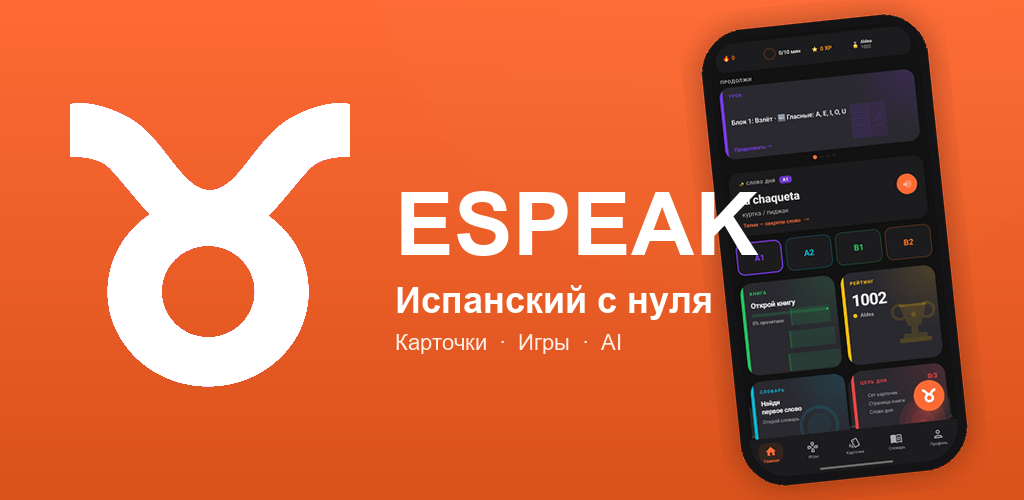
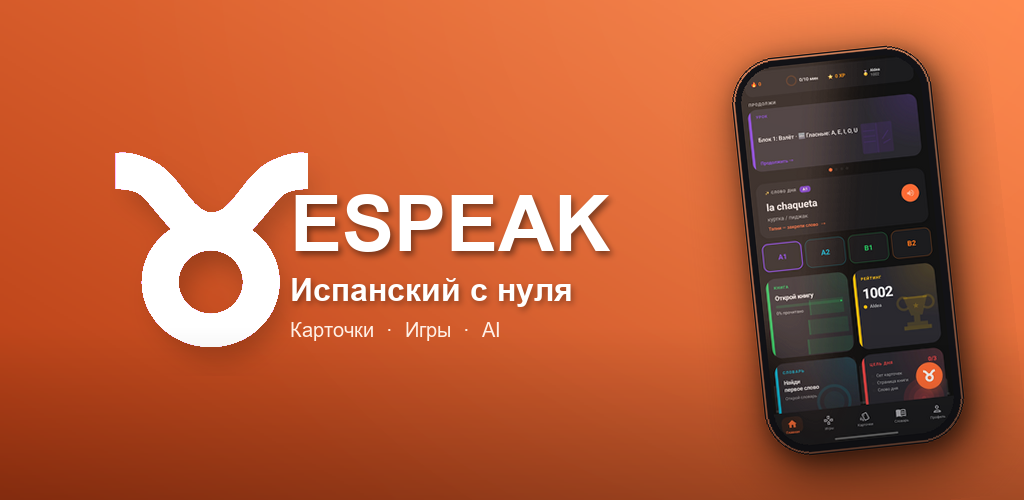
play(assets): feature graphic v5 — depth + shadows + glass reflection
User feedback on v4: composition lacked volume, shadows, depth.

v5 adds proper depth without changing the layout structure:
- Diagonal background gradient (bright top-right → deep bottom-left)
  instead of flat vertical, ties to the sun-glow
- Sun-glow halo in the top-right corner (Gaussian-blurred radial)
- Soft cast shadow under the bull silhouette (16px blur, 140 alpha,
  offset down-right)
- Multi-layer drop shadow under the phone (28px outer + 10px inner,
  black, blurred)
- Bezel highlight on the phone (1px white outline, 35 alpha)
- Glass reflection on the screen (diagonal soft-blurred polygon,
  30 alpha) — sells the "real device" illusion
- Soft text drop-shadow under ESPEAK / Испанский с нуля
- Bottom vignette (black, 0→70 alpha) for grounding
- Smaller bull (220×220) to avoid crowding text

diff --git a/docs/play_assets/_make_feature_v5.py b/docs/play_assets/_make_feature_v5.py
@@ -1,0 +1,195 @@
+"""1024x500 Play Store feature graphic v5 — depth, shadows, volume.
+
+Same composition as v4 (bull+text left, phone mockup right) but with:
+  • Dramatic radial light from top-right (sun-glow)
+  • Soft cast shadow under the bull
+  • Deeper, multi-layer drop shadow under the phone
+  • Glass screen reflection (diagonal highlight)
+  • Subtle text shadow under ESPEAK
+  • Bottom vignette for grounding
+"""
+from svglib.svglib import svg2rlg
+from reportlab.graphics import renderPM
+from PIL import Image, ImageDraw, ImageFont, ImageFilter
+import io, os
+
+W, H = 1024, 500
+
+# ── Bull silhouette ────────────────────────────────────────
+BULL_SVG = '<?xml version="1.0" encoding="UTF-8"?>\n<svg xmlns="http://www.w3.org/2000/svg" width="220" height="220" viewBox="0 0 512 512"><rect width="512" height="512" fill="#FF00FF"/><path fill="#FFFFFF" d="M30.882,30.14s33.525,-10.81 92.088,19.64c60.996,31.72 85.628,116.77 132.906,117.86c47.283,-1.09 71.92,-86.14 132.912,-117.858c58.558,-30.45 92.088,-19.643 92.088,-19.643v85.483s-38.062,-2.453 -58.934,13.507c-15.165,11.593 -45.23,54.296 -71.375,80.08c38.867,27.833 63.966,71.877 63.966,121.45c0,84.162 -72.343,152.39 -161.587,152.39S91.353,414.821 91.353,330.659c0,-51.03 26.6,-96.205 67.432,-123.865c-25.558,-25.957 -54.263,-66.43 -68.965,-77.67c-20.877,-15.96 -58.938,-13.506 -58.938,-13.506zM179.45,330.49c0,40.01 32.98,72.44 73.664,72.44s73.67,-32.435 73.67,-72.44s-32.98,-72.44 -73.67,-72.44c-40.688,0 -73.664,32.436 -73.664,72.44"/></svg>'
+
+drawing = svg2rlg(io.BytesIO(BULL_SVG.encode('utf-8')))
+bull_marker_path = 'docs/play_assets/_bull_marker_tmp.png'
+renderPM.drawToFile(drawing, bull_marker_path, fmt='PNG', dpi=72)
+bull = Image.open(bull_marker_path).convert('RGBA')
+data = list(bull.getdata())
+new_data = []
+for r, g, b, a in data:
+    if r > b * 0.9 and g < 200 and abs(r - b) < 80 and r > 150 and b > 150 and g < r * 0.7:
+        new_data.append((0, 0, 0, 0))
+    else:
+        new_data.append((r, g, b, a))
+bull.putdata(new_data)
+
+# ── Background — diagonal gradient FROM bright top-right TO dark bottom-left
+img = Image.new('RGBA', (W, H), (217, 82, 28, 255))
+draw = ImageDraw.Draw(img)
+# Compute per-pixel from a diagonal gradient
+top_color    = (255, 130, 70)    # warm bright
+bot_color    = (180, 60, 20)     # deep darker
+for y in range(H):
+    for x_seg in range(0, W, 4):  # step 4 for speed; will fill rect
+        # Distance from top-right corner (0..max)
+        dx = (W - x_seg) / W
+        dy = y / H
+        t = (dx * 0.55 + dy * 0.45)
+        t = max(0.0, min(1.0, t))
+        r = int(top_color[0] + (bot_color[0] - top_color[0]) * t)
+        g = int(top_color[1] + (bot_color[1] - top_color[1]) * t)
+        b = int(top_color[2] + (bot_color[2] - top_color[2]) * t)
+        draw.rectangle([x_seg, y, x_seg + 4, y + 1], fill=(r, g, b))
+
+# ── Sun-glow from top-right ────────────────────────────────
+glow = Image.new('RGBA', (W, H), (0, 0, 0, 0))
+gdraw = ImageDraw.Draw(glow)
+sun_x, sun_y = W - 200, -50
+for r in range(700, 80, -8):
+    alpha = max(0, int(28 - r * 0.038))
+    if alpha <= 0: continue
+    gdraw.ellipse([sun_x - r, sun_y - r, sun_x + r, sun_y + r],
+                  fill=(255, 240, 200, alpha))
+glow = glow.filter(ImageFilter.GaussianBlur(8))
+img = Image.alpha_composite(img, glow)
+
+# ── Phone mockup with screenshot — deeper shadow ──────────
+SHOT = 'docs/play_assets/screenshots/Screenshot_20260511_095005_ESPEAK.jpg'
+shot = Image.open(SHOT).convert('RGBA')
+ph_h = 380
+ph_w = int(ph_h * (shot.width / shot.height))
+shot_resized = shot.resize((ph_w, ph_h), Image.LANCZOS)
+
+PHONE_W = ph_w + 18
+PHONE_H = ph_h + 18
+
+# Composite phone with multi-layer shadow + glass reflection
+def build_phone():
+    pad = 60
+    canvas = Image.new('RGBA', (PHONE_W + pad * 2, PHONE_H + pad * 2), (0, 0, 0, 0))
+
+    # Layer 1: large soft shadow
+    s1 = Image.new('RGBA', canvas.size, (0, 0, 0, 0))
+    s1d = ImageDraw.Draw(s1)
+    s1d.rounded_rectangle([pad + 8, pad + 16, pad + PHONE_W + 8, pad + PHONE_H + 16],
+                           radius=44, fill=(0, 0, 0, 160))
+    s1 = s1.filter(ImageFilter.GaussianBlur(28))
+
+    # Layer 2: closer shadow
+    s2 = Image.new('RGBA', canvas.size, (0, 0, 0, 0))
+    s2d = ImageDraw.Draw(s2)
+    s2d.rounded_rectangle([pad + 4, pad + 6, pad + PHONE_W + 4, pad + PHONE_H + 6],
+                           radius=44, fill=(0, 0, 0, 120))
+    s2 = s2.filter(ImageFilter.GaussianBlur(10))
+
+    canvas = Image.alpha_composite(canvas, s1)
+    canvas = Image.alpha_composite(canvas, s2)
+
+    # Phone body — slightly off-black with bezel highlight
+    body = Image.new('RGBA', canvas.size, (0, 0, 0, 0))
+    bdraw = ImageDraw.Draw(body)
+    bdraw.rounded_rectangle([pad, pad, pad + PHONE_W, pad + PHONE_H],
+                            radius=46, fill=(18, 18, 22, 255))
+    # Inner bezel highlight (subtle white border)
+    bdraw.rounded_rectangle([pad + 1, pad + 1, pad + PHONE_W - 1, pad + PHONE_H - 1],
+                            radius=45, outline=(255, 255, 255, 35), width=2)
+    canvas = Image.alpha_composite(canvas, body)
+
+    # Screen with rounded mask
+    mask = Image.new('L', (ph_w, ph_h), 0)
+    mdraw = ImageDraw.Draw(mask)
+    mdraw.rounded_rectangle([0, 0, ph_w - 1, ph_h - 1], radius=36, fill=255)
+    canvas.paste(shot_resized, (pad + 9, pad + 9), mask)
+
+    # Glass reflection — diagonal soft highlight on the screen surface
+    glass = Image.new('RGBA', (ph_w, ph_h), (0, 0, 0, 0))
+    gdr = ImageDraw.Draw(glass)
+    gdr.polygon([
+        (0, 0), (ph_w * 0.6, 0),
+        (ph_w * 0.25, ph_h), (0, ph_h * 0.7)
+    ], fill=(255, 255, 255, 30))
+    glass = glass.filter(ImageFilter.GaussianBlur(20))
+    glass_masked = Image.composite(glass, Image.new('RGBA', glass.size, (0, 0, 0, 0)), mask)
+    canvas.paste(glass_masked, (pad + 9, pad + 9), glass_masked)
+
+    return canvas
+
+phone_full = build_phone()
+phone_full = phone_full.rotate(6, resample=Image.BICUBIC, expand=True)
+
+phone_x = W - phone_full.width + 10
+phone_y = (H - phone_full.height) // 2
+img.paste(phone_full, (phone_x, phone_y), phone_full)
+
+# ── Bull with cast shadow ──────────────────────────────────
+def with_shadow(im, ox=12, oy=18, blur=18, alpha=120):
+    """Returns RGBA canvas with blurred shadow behind im."""
+    pad = blur * 2 + 30
+    canvas = Image.new('RGBA', (im.width + pad * 2, im.height + pad * 2), (0, 0, 0, 0))
+    # shadow = black version of bull alpha
+    shadow = Image.new('RGBA', im.size, (0, 0, 0, 0))
+    shadow_data = []
+    for r, g, b, a in im.getdata():
+        shadow_data.append((0, 0, 0, min(a, alpha)))
+    shadow.putdata(shadow_data)
+    blurred = shadow.filter(ImageFilter.GaussianBlur(blur))
+    canvas.paste(blurred, (pad + ox, pad + oy), blurred)
+    canvas.paste(im, (pad, pad), im)
+    return canvas
+
+bull_with_shadow = with_shadow(bull, ox=8, oy=16, blur=16, alpha=140)
+bull_x = 40
+bull_y = (H - bull_with_shadow.height) // 2
+img.paste(bull_with_shadow, (bull_x, bull_y), bull_with_shadow)
+
+# ── Bottom vignette for grounding ─────────────────────────
+vig = Image.new('RGBA', (W, H), (0, 0, 0, 0))
+vdr = ImageDraw.Draw(vig)
+for y in range(int(H * 0.65), H):
+    t = (y - H * 0.65) / (H - H * 0.65)
+    a = int(70 * t)
+    vdr.line([(0, y), (W, y)], fill=(0, 0, 0, a))
+img = Image.alpha_composite(img, vig)
+
+# ── Text with subtle drop shadow ──────────────────────────
+def find_font(candidates):
+    for path in candidates:
+        if os.path.exists(path): return path
+    return None
+
+font_bold = find_font(['C:/Windows/Fonts/arialbd.ttf', 'C:/Windows/Fonts/seguibl.ttf'])
+font_reg  = find_font(['C:/Windows/Fonts/arial.ttf', 'C:/Windows/Fonts/segoeui.ttf'])
+font_brand   = ImageFont.truetype(font_bold, 78)
+font_tagline = ImageFont.truetype(font_bold, 32)
+font_feats   = ImageFont.truetype(font_reg, 20)
+
+text_x = 290              # explicit position — clears the bull (40-260 area)
+y = H // 2 - 70
+
+# Draw shadow first (offset, slightly transparent)
+shadow_layer = Image.new('RGBA', (W, H), (0, 0, 0, 0))
+sd = ImageDraw.Draw(shadow_layer)
+sd.text((text_x + 3, y + 4), "ESPEAK", fill=(0, 0, 0, 110), font=font_brand)
+sd.text((text_x + 2, y + 92 + 3), "Испанский с нуля", fill=(0, 0, 0, 90), font=font_tagline)
+shadow_layer = shadow_layer.filter(ImageFilter.GaussianBlur(3))
+img = Image.alpha_composite(img, shadow_layer)
+
+# Foreground text
+draw = ImageDraw.Draw(img)
+draw.text((text_x, y), "ESPEAK", fill=(255, 255, 255), font=font_brand)
+draw.text((text_x, y + 92), "Испанский с нуля", fill=(255, 255, 255), font=font_tagline)
+draw.text((text_x, y + 138), "Карточки  ·  Игры  ·  AI",
+          fill=(255, 240, 230), font=font_feats)
+
+out = 'docs/play_assets/feature_1024x500.png'
+img.convert('RGB').save(out, 'PNG', optimize=True)
+os.remove(bull_marker_path)
+print('Wrote', out, os.path.getsize(out), 'bytes')
